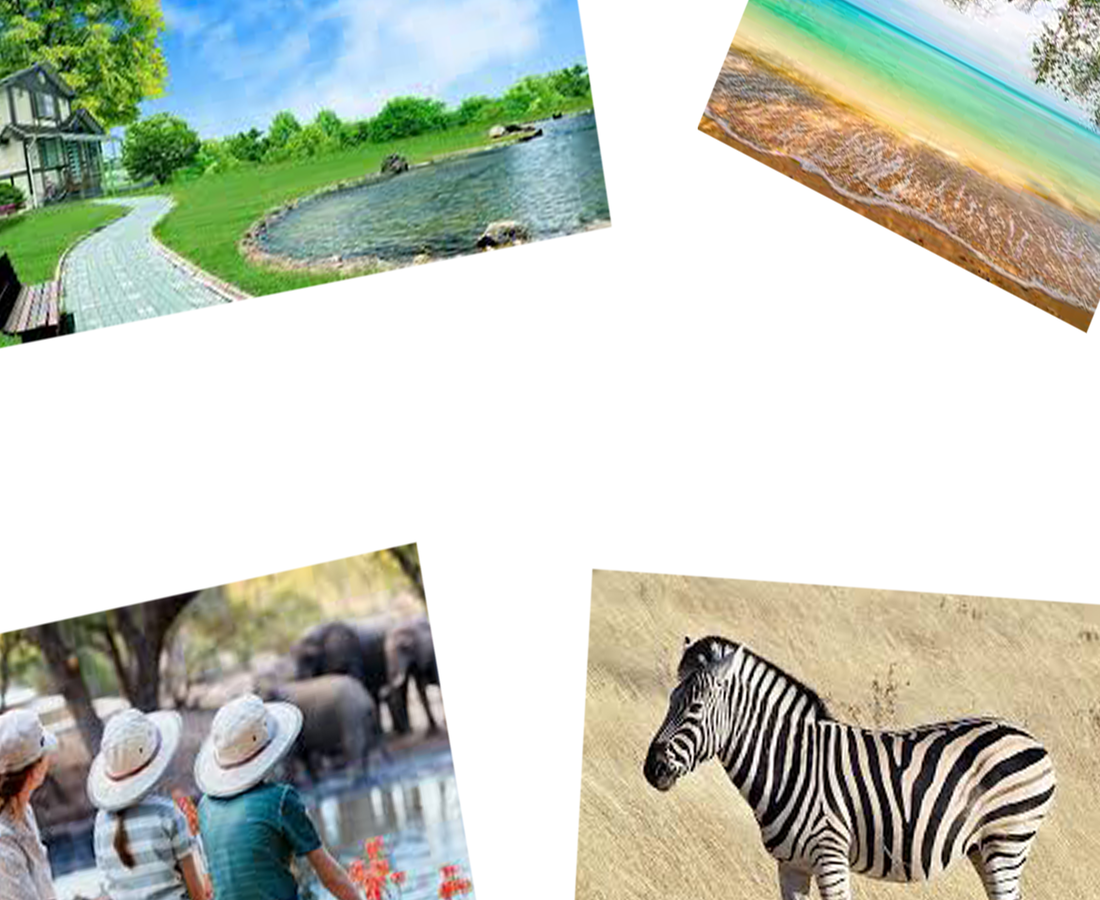
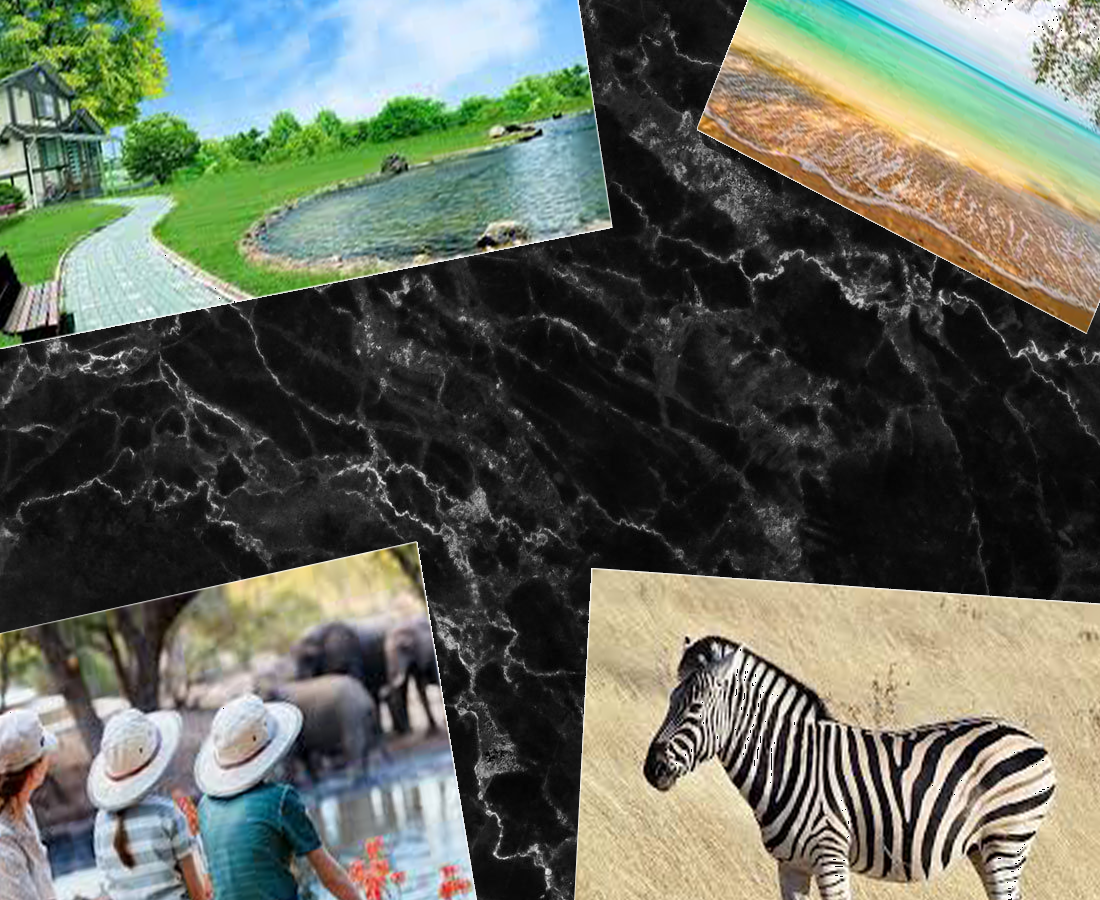
background on title screen
Added background to main title screen

diff --git a/PlayfulPicture/PlayfulPicture/TitleScreen.cpp b/PlayfulPicture/PlayfulPicture/TitleScreen.cpp
@@ -31,7 +31,7 @@ namespace SDLFramework
 		mPushAnimated->SetParent(mPushStart);
 
 		//background 
-		mBackground = new Texture("background2.png", 0, 0, 1100, 900);
+		mBackground = new Texture("Background.png", 0, 0, 1100, 900);
 		mBackground->SetParent(this);
 		mBackground->SetPosition(Graphics::SCREEN_WIDTH * 0.5f, Graphics::SCREEN_HEIGHT * 0.5f);
 		//mBackground->SetScale(Vector2(2.9648f, 2.9648f));
